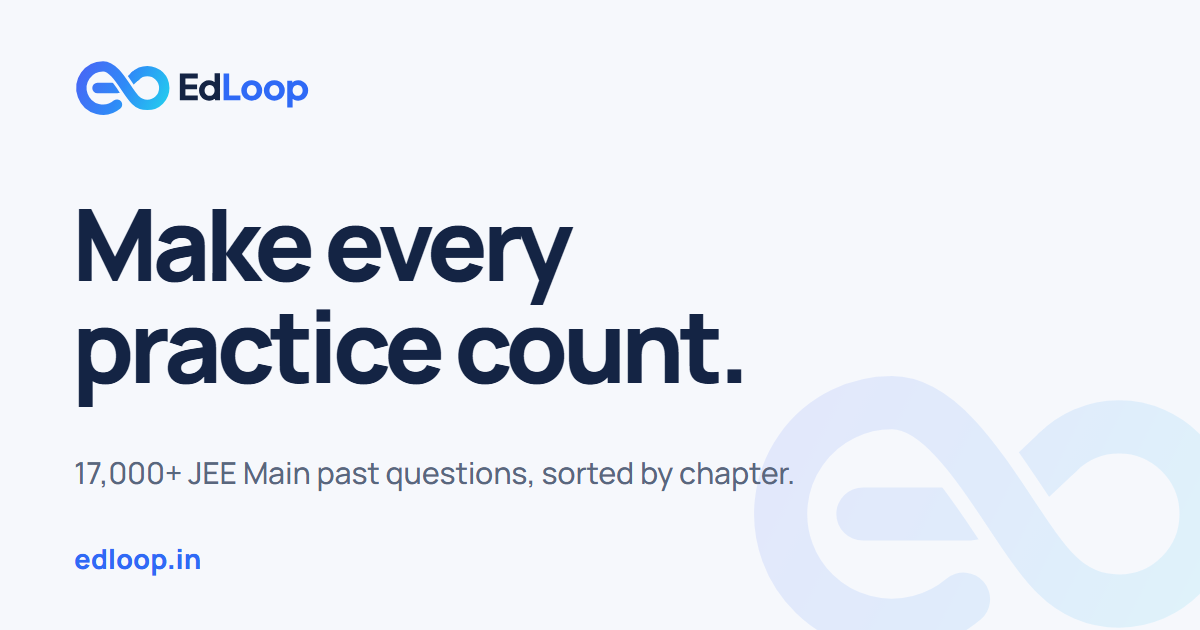
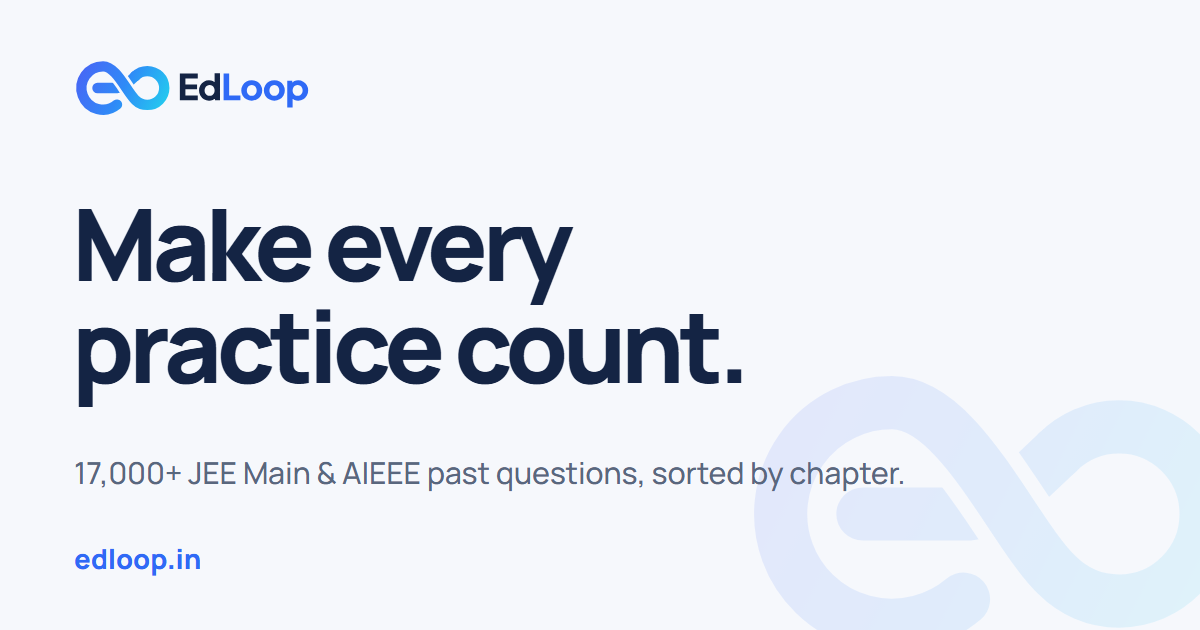
Bank grows wording: "JEE Main & AIEEE" to match the store/social sheet (not published)
- og:description: "17,000+ JEE Main & AIEEE past questions, sorted by chapter. ..."
- hero-proof label under 200: "JEE Main papers" -> "past papers" (200 = 185 JEE Main + 15 AIEEE;
  "JEE Main & AIEEE papers" wraps every label to two lines at 375 px)
- social.png line: "17,000+ JEE Main & AIEEE past questions, sorted by chapter."
  (re-rendered from make_social.html); og:image ?v=3

Changed region(s): [[0.2467, 0.7238, 0.74, 0.7841]]

diff --git a/index.html b/index.html
@@ -8,11 +8,11 @@
   <meta name="description" content="17,000+ JEE Main &amp; AIEEE previous-year questions from 200 papers (2002–2026), sorted by chapter, with recurring patterns, custom tests and worked solutions. EdLoop JEE for Android.">
   <link rel="canonical" href="https://edloop.in/">
   <meta property="og:title" content="EdLoop — Make every practice count">
-  <meta property="og:description" content="17,000+ JEE Main past questions, sorted by chapter. See what comes again and practise it.">
+  <meta property="og:description" content="17,000+ JEE Main &amp; AIEEE past questions, sorted by chapter. See what comes again and practise it.">
   <script type="application/ld+json">{"@context":"https://schema.org","@type":"Organization","name":"EdLoop","url":"https://edloop.in/","logo":"https://edloop.in/assets/brand/icon-512.png","email":"support@edloop.in"}</script>
   <meta property="og:type" content="website">
   <meta property="og:url" content="https://edloop.in/">
-  <meta property="og:image" content="https://edloop.in/assets/brand/social.png?v=2">
+  <meta property="og:image" content="https://edloop.in/assets/brand/social.png?v=3">
   <meta name="twitter:card" content="summary_large_image">
   <link rel="icon" href="assets/brand/mark-small.svg" type="image/svg+xml">
   <link rel="apple-touch-icon" href="assets/brand/icon-512.png">
@@ -42,7 +42,7 @@
       <div class="hero-copy">
         <h1 id="hero-title">Make every<br>practice count.</h1>
         <p class="hero-description">Find the patterns in past papers.<br class="desktop-break"> Practise what matters. Know what to work on next.</p>
-        <ul class="hero-proof" aria-label="EdLoop JEE in numbers"><li><strong>17,000+</strong><span>past questions</span></li><li><strong>200</strong><span>JEE Main papers</span></li><li><strong>2002–26</strong><span>sorted by chapter</span></li></ul>
+        <ul class="hero-proof" aria-label="EdLoop JEE in numbers"><li><strong>17,000+</strong><span>past questions</span></li><li><strong>200</strong><span>past papers</span></li><li><strong>2002–26</strong><span>sorted by chapter</span></li></ul>
         <div class="hero-actions"><a class="button" href="#practice">Try a real question</a><a class="text-link" href="#inside">See the app <span aria-hidden="true">↓</span></a></div>
         <p class="availability"><span aria-hidden="true"></span>In early testing on Android · <a href="mailto:support@edloop.in?subject=Join%20the%20EdLoop%20JEE%20test">Join the test</a></p>
       </div>

diff --git a/assets/brand/make_social.html b/assets/brand/make_social.html
@@ -26,7 +26,7 @@
   <img class="wm" src="mark.svg" alt="">
   <img class="logo" src="lockup.svg" alt="EdLoop">
   <h1>Make every<br>practice count.</h1>
-  <p class="sub">17,000+ JEE Main past questions, sorted by chapter.</p>
+  <p class="sub">17,000+ JEE Main &amp; AIEEE past questions, sorted by chapter.</p>
   <p class="url">edloop.in</p>
 </body>
 </html>
